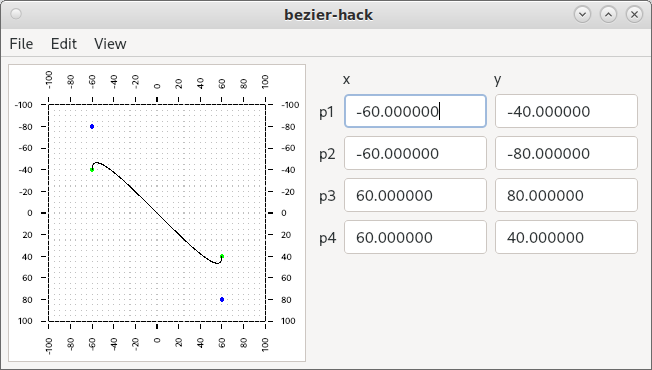
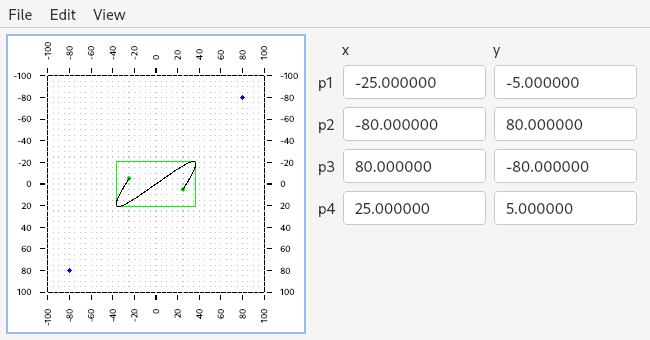
Change initial curve to a more interesting one, and update screenshot to it.

diff --git a/src/main_window.cc b/src/main_window.cc
@@ -13,10 +13,10 @@
 #include "main_window.hh"
 
 MainWindow::MainWindow():
-  b {{-60.0, -40.0},
-     {-60.0, -80.0},
-     { 60.0,  80.0},
-     { 60.0,  40.0}},
+  b {{-25.0,  -5.0},
+     {-80.0,  80.0},
+     { 80.0, -80.0},
+     { 25.0,   5.0}},
   bezier(b),
   bezier_widget(new BezierWidget(bezier,
 				 this)) // QWidget* parent
